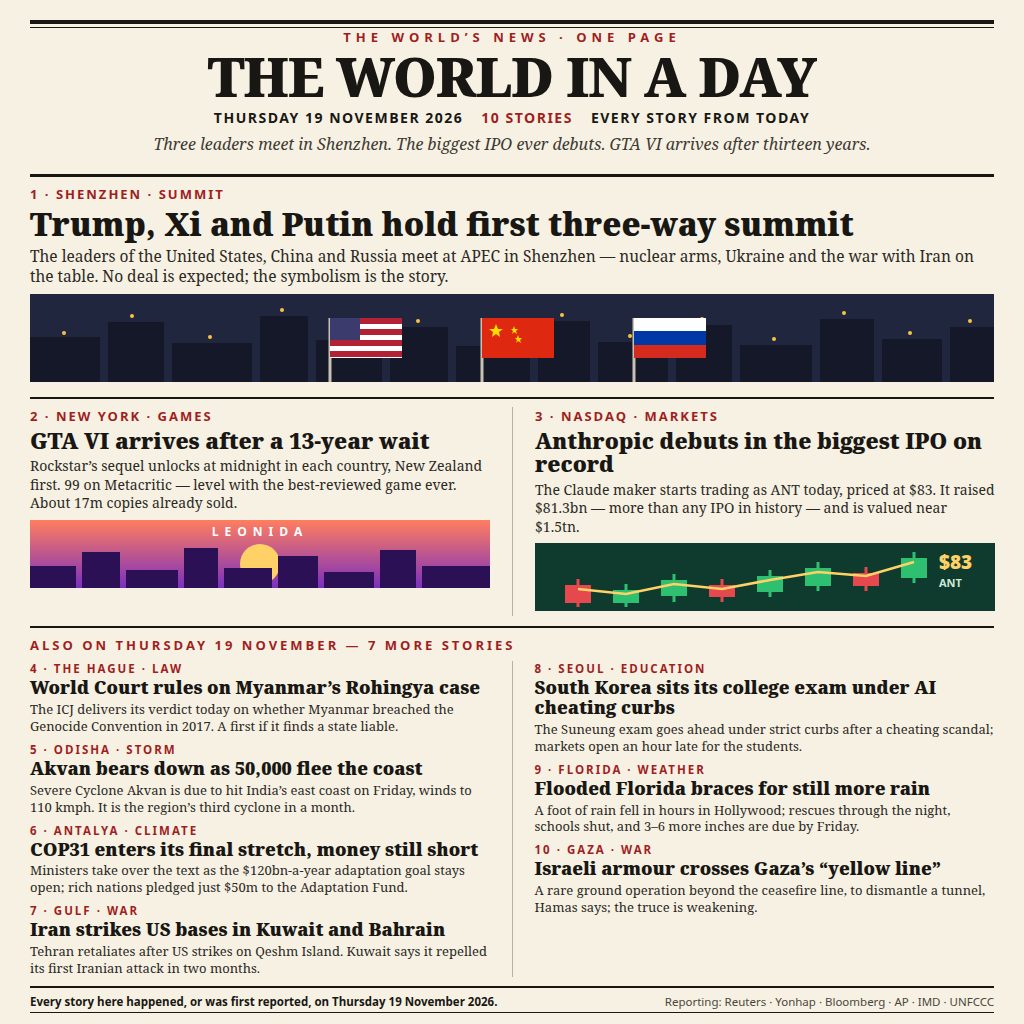
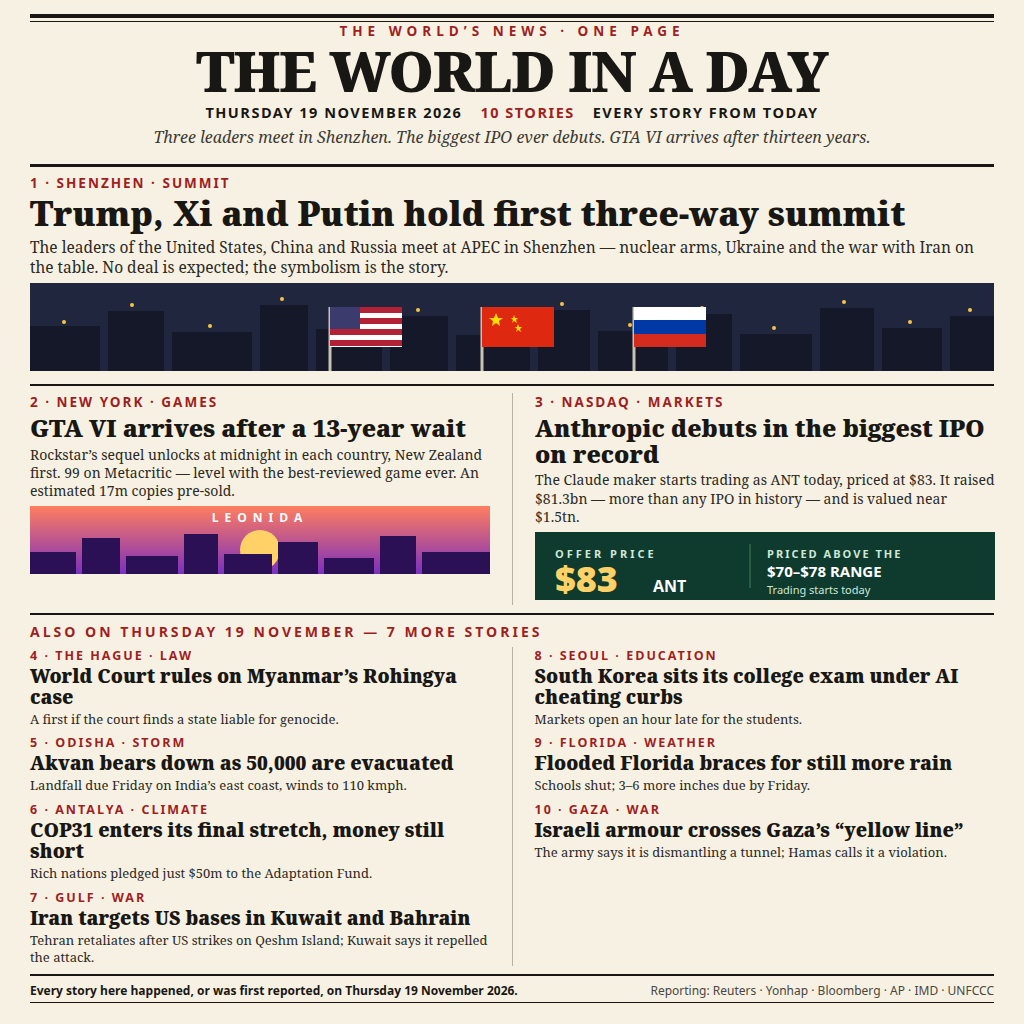
v2: fix Codex review findings (Gaza attribution, Iran 'targets', GTA estimate, honest ANT offer-price block, 300px legibility)
- Gaza: tunnel rationale is the army's, Hamas calls it a violation; drop 'truce is weakening'
- Iran: 'strikes' -> 'targets' (Kuwait repelled, Bahrain intercepted, no US hurt)
- GTA: 'already sold' -> 'an estimated 17m copies pre-sold'
- Anthropic: candlestick chart (invented trading history) replaced with
  OFFER PRICE $83 / PRICED ABOVE THE $70-$78 RANGE block
- Akvan: 'flee' -> 'are evacuated'
- Briefs cut to one short line each; headlines/dateline/masthead enlarged
- ICJ re-checked 16:35 WIB: outcome still not public, wording kept
- entry.png 1024x1024, 239,165 bytes, byte-identical double run confirmed

diff --git a/page.html b/page.html
@@ -10,69 +10,69 @@
     background: #f6f1e3;
     color: #191713;
     font-family: "Noto Serif", "DejaVu Serif", Georgia, serif;
-    padding: 20px 30px 16px 30px;
+    padding: 14px 30px 10px 30px;
   }
   .rule-thick { border-top: 4px solid #191713; }
   .rule-thin { border-top: 1.5px solid #191713; margin-top: 3px; }
   .rule-red { border-top: 2px solid #a01e1e; }
 
   /* ---------- masthead ---------- */
-  .masthead { text-align: center; padding-bottom: 10px; }
+  .masthead { text-align: center; padding-bottom: 8px; }
   .eyebrow {
     font-family: "Noto Sans", "DejaVu Sans", sans-serif;
-    font-size: 13px; letter-spacing: 5px; color: #a01e1e; font-weight: 700;
+    font-size: 13.5px; letter-spacing: 5px; color: #a01e1e; font-weight: 700;
     text-transform: uppercase;
   }
   h1 {
-    font-size: 54px; line-height: 1.0; font-weight: 900; letter-spacing: -1px;
-    margin: 3px 0 5px 0;
+    font-size: 56px; line-height: 1.0; font-weight: 900; letter-spacing: -1px;
+    margin: 2px 0 4px 0;
   }
   .dateline {
     display: flex; justify-content: center; gap: 18px;
     font-family: "Noto Sans", "DejaVu Sans", sans-serif;
-    font-size: 14px; font-weight: 700; letter-spacing: 1.5px; text-transform: uppercase;
+    font-size: 14.5px; font-weight: 700; letter-spacing: 1.5px; text-transform: uppercase;
   }
   .dateline .red { color: #a01e1e; }
   .standfirst {
-    margin-top: 6px; font-style: italic; font-size: 16px; color: #3d3a33;
+    margin-top: 4px; font-style: italic; font-size: 16px; color: #3d3a33;
   }
 
   /* ---------- lead story ---------- */
-  .lead { margin-top: 9px; border-top: 3px solid #191713; padding-top: 8px; }
+  .lead { margin-top: 8px; border-top: 3px solid #191713; padding-top: 7px; }
   .kicker {
     font-family: "Noto Sans", "DejaVu Sans", sans-serif;
-    font-size: 13px; font-weight: 700; letter-spacing: 2px; color: #a01e1e;
+    font-size: 13.5px; font-weight: 700; letter-spacing: 2px; color: #a01e1e;
     text-transform: uppercase;
   }
-  .lead h2 { font-size: 32px; line-height: 1.05; font-weight: 900; margin: 4px 0 5px 0; }
+  .lead h2 { font-size: 34px; line-height: 1.05; font-weight: 900; margin: 4px 0 5px 0; }
   .lead p { font-size: 15.5px; line-height: 1.32; color: #2c2925; }
-  .lead .visual { margin-top: 7px; }
+  .lead .visual { margin-top: 5px; }
 
   /* ---------- two sub-leads ---------- */
-  .subleads { display: flex; gap: 22px; margin-top: 10px; border-top: 2px solid #191713; padding-top: 8px; }
+  .subleads { display: flex; gap: 22px; margin-top: 8px; border-top: 2px solid #191713; padding-top: 7px; }
   .sub { flex: 1; }
   .sub + .sub { border-left: 1.5px solid #b9b2a0; padding-left: 22px; }
-  .sub h3 { font-size: 22px; line-height: 1.08; font-weight: 900; margin: 4px 0 5px 0; }
+  .sub h3 { font-size: 24px; line-height: 1.08; font-weight: 900; margin: 4px 0 5px 0; }
   .sub p { font-size: 14px; line-height: 1.32; color: #2c2925; }
-  .sub .visual { margin-top: 7px; }
+  .sub .visual { margin-top: 5px; }
 
   /* ---------- rest of the day ---------- */
-  .rest { margin-top: 10px; border-top: 2px solid #191713; padding-top: 8px; }
+  .rest { margin-top: 8px; border-top: 2px solid #191713; padding-top: 7px; }
   .rest-title {
     font-family: "Noto Sans", "DejaVu Sans", sans-serif;
-    font-size: 13px; font-weight: 700; letter-spacing: 3px; color: #a01e1e;
-    text-transform: uppercase; margin-bottom: 7px;
+    font-size: 14px; font-weight: 700; letter-spacing: 3px; color: #a01e1e;
+    text-transform: uppercase; margin-bottom: 6px;
   }
   .rest-grid { display: flex; gap: 22px; }
   .rest-col { flex: 1; display: flex; flex-direction: column; gap: 7px; }
   .rest-col + .rest-col { border-left: 1.5px solid #b9b2a0; padding-left: 22px; }
-  .item h4 { font-size: 18px; line-height: 1.1; font-weight: 900; margin: 2px 0 3px 0; }
+  .item h4 { font-size: 19px; line-height: 1.1; font-weight: 900; margin: 2px 0 3px 0; }
   .item p { font-size: 13px; line-height: 1.3; color: #2c2925; }
-  .item .kicker { font-size: 11.5px; }
+  .item .kicker { font-size: 12.5px; }
 
   /* ---------- footer ---------- */
-  .footer { margin-top: 9px; border-top: 2px solid #191713; padding-top: 6px;
-    font-family: "Noto Sans", "DejaVu Sans", sans-serif; font-size: 11.5px; color: #4a463d;
+  .footer { margin-top: 8px; border-top: 2px solid #191713; padding-top: 6px;
+    font-family: "Noto Sans", "DejaVu Sans", sans-serif; font-size: 12px; color: #4a463d;
     display: flex; justify-content: space-between; gap: 12px; }
   .footer b { color: #191713; }
 </style>
@@ -145,7 +145,7 @@
     <div class="sub">
       <div class="kicker">2 &middot; New York &middot; Games</div>
       <h3>GTA VI arrives after a 13-year wait</h3>
-      <p>Rockstar&rsquo;s sequel unlocks at midnight in each country, New Zealand first. 99 on Metacritic &mdash; level with the best-reviewed game ever. About 17m copies already sold.</p>
+      <p>Rockstar&rsquo;s sequel unlocks at midnight in each country, New Zealand first. 99 on Metacritic &mdash; level with the best-reviewed game ever. An estimated 17m copies pre-sold.</p>
       <div class="visual">
         <svg width="460" height="68" viewBox="0 0 460 68" xmlns="http://www.w3.org/2000/svg">
           <defs><linearGradient id="sun" x1="0" y1="0" x2="0" y2="1">
@@ -171,19 +171,13 @@
       <div class="visual">
         <svg width="460" height="68" viewBox="0 0 460 68" xmlns="http://www.w3.org/2000/svg">
           <rect x="0" y="0" width="460" height="68" fill="#0e3b2e"/>
-          <g>
-            <rect x="30" y="42" width="26" height="18" fill="#e5484d"/><line x1="43" y1="36" x2="43" y2="64" stroke="#e5484d" stroke-width="3"/>
-            <rect x="78" y="47" width="26" height="13" fill="#2fbf71"/><line x1="91" y1="41" x2="91" y2="64" stroke="#2fbf71" stroke-width="3"/>
-            <rect x="126" y="37" width="26" height="16" fill="#2fbf71"/><line x1="139" y1="31" x2="139" y2="59" stroke="#2fbf71" stroke-width="3"/>
-            <rect x="174" y="42" width="26" height="12" fill="#e5484d"/><line x1="187" y1="36" x2="187" y2="59" stroke="#e5484d" stroke-width="3"/>
-            <rect x="222" y="33" width="26" height="16" fill="#2fbf71"/><line x1="235" y1="27" x2="235" y2="54" stroke="#2fbf71" stroke-width="3"/>
-            <rect x="270" y="25" width="26" height="18" fill="#2fbf71"/><line x1="283" y1="19" x2="283" y2="48" stroke="#2fbf71" stroke-width="3"/>
-            <rect x="318" y="30" width="26" height="13" fill="#e5484d"/><line x1="331" y1="24" x2="331" y2="48" stroke="#e5484d" stroke-width="3"/>
-            <rect x="366" y="15" width="26" height="20" fill="#2fbf71"/><line x1="379" y1="9" x2="379" y2="40" stroke="#2fbf71" stroke-width="3"/>
-          </g>
-          <polyline points="43,46 91,51 139,41 187,46 235,37 283,29 331,33 379,19" fill="none" stroke="#ffd166" stroke-width="2.5"/>
-          <text x="404" y="26" font-family="Noto Sans, sans-serif" font-size="19" font-weight="900" fill="#ffd166">$83</text>
-          <text x="404" y="44" font-family="Noto Sans, sans-serif" font-size="11" font-weight="700" fill="#cfe8d8">ANT</text>
+          <text x="20" y="26" font-family="Noto Sans, sans-serif" font-size="11" font-weight="700" letter-spacing="3" fill="#cfe8d8">OFFER PRICE</text>
+          <text x="20" y="60" font-family="Noto Sans, sans-serif" font-size="36" font-weight="900" fill="#ffd166">$83</text>
+          <text x="118" y="60" font-family="Noto Sans, sans-serif" font-size="16" font-weight="700" fill="#ffffff">ANT</text>
+          <line x1="215" y1="12" x2="215" y2="56" stroke="#2f6b52" stroke-width="1.5"/>
+          <text x="232" y="26" font-family="Noto Sans, sans-serif" font-size="11" font-weight="700" letter-spacing="2" fill="#cfe8d8">PRICED ABOVE THE</text>
+          <text x="232" y="45" font-family="Noto Sans, sans-serif" font-size="15" font-weight="700" fill="#ffffff">$70&#8211;$78 RANGE</text>
+          <text x="232" y="62" font-family="Noto Sans, sans-serif" font-size="11" fill="#cfe8d8">Trading starts today</text>
         </svg>
       </div>
     </div>
@@ -197,39 +191,39 @@
         <div class="item">
           <div class="kicker">4 &middot; The Hague &middot; Law</div>
           <h4>World Court rules on Myanmar&rsquo;s Rohingya case</h4>
-          <p>The ICJ delivers its verdict today on whether Myanmar breached the Genocide Convention in 2017. A first if it finds a state liable.</p>
+          <p>A first if the court finds a state liable for genocide.</p>
         </div>
         <div class="item">
           <div class="kicker">5 &middot; Odisha &middot; Storm</div>
-          <h4>Akvan bears down as 50,000 flee the coast</h4>
-          <p>Severe Cyclone Akvan is due to hit India&rsquo;s east coast on Friday, winds to 110 kmph. It is the region&rsquo;s third cyclone in a month.</p>
+          <h4>Akvan bears down as 50,000 are evacuated</h4>
+          <p>Landfall due Friday on India&rsquo;s east coast, winds to 110 kmph.</p>
         </div>
         <div class="item">
           <div class="kicker">6 &middot; Antalya &middot; Climate</div>
           <h4>COP31 enters its final stretch, money still short</h4>
-          <p>Ministers take over the text as the $120bn-a-year adaptation goal stays open; rich nations pledged just $50m to the Adaptation Fund.</p>
+          <p>Rich nations pledged just $50m to the Adaptation Fund.</p>
         </div>
         <div class="item">
           <div class="kicker">7 &middot; Gulf &middot; War</div>
-          <h4>Iran strikes US bases in Kuwait and Bahrain</h4>
-          <p>Tehran retaliates after US strikes on Qeshm Island. Kuwait says it repelled its first Iranian attack in two months.</p>
+          <h4>Iran targets US bases in Kuwait and Bahrain</h4>
+          <p>Tehran retaliates after US strikes on Qeshm Island; Kuwait says it repelled the attack.</p>
         </div>
       </div>
       <div class="rest-col">
         <div class="item">
           <div class="kicker">8 &middot; Seoul &middot; Education</div>
           <h4>South Korea sits its college exam under AI cheating curbs</h4>
-          <p>The Suneung exam goes ahead under strict curbs after a cheating scandal; markets open an hour late for the students.</p>
+          <p>Markets open an hour late for the students.</p>
         </div>
         <div class="item">
           <div class="kicker">9 &middot; Florida &middot; Weather</div>
           <h4>Flooded Florida braces for still more rain</h4>
-          <p>A foot of rain fell in hours in Hollywood; rescues through the night, schools shut, and 3&ndash;6 more inches are due by Friday.</p>
+          <p>Schools shut; 3&ndash;6 more inches due by Friday.</p>
         </div>
         <div class="item">
           <div class="kicker">10 &middot; Gaza &middot; War</div>
           <h4>Israeli armour crosses Gaza&rsquo;s &ldquo;yellow line&rdquo;</h4>
-          <p>A rare ground operation beyond the ceasefire line, to dismantle a tunnel, Hamas says; the truce is weakening.</p>
+          <p>The army says it is dismantling a tunnel; Hamas calls it a violation.</p>
         </div>
       </div>
     </div>
